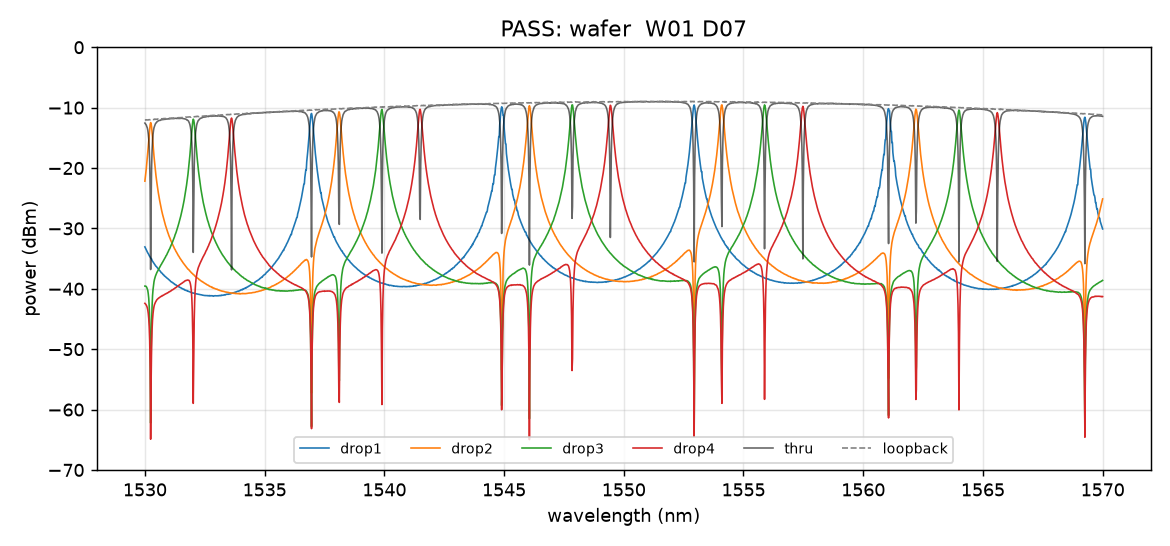
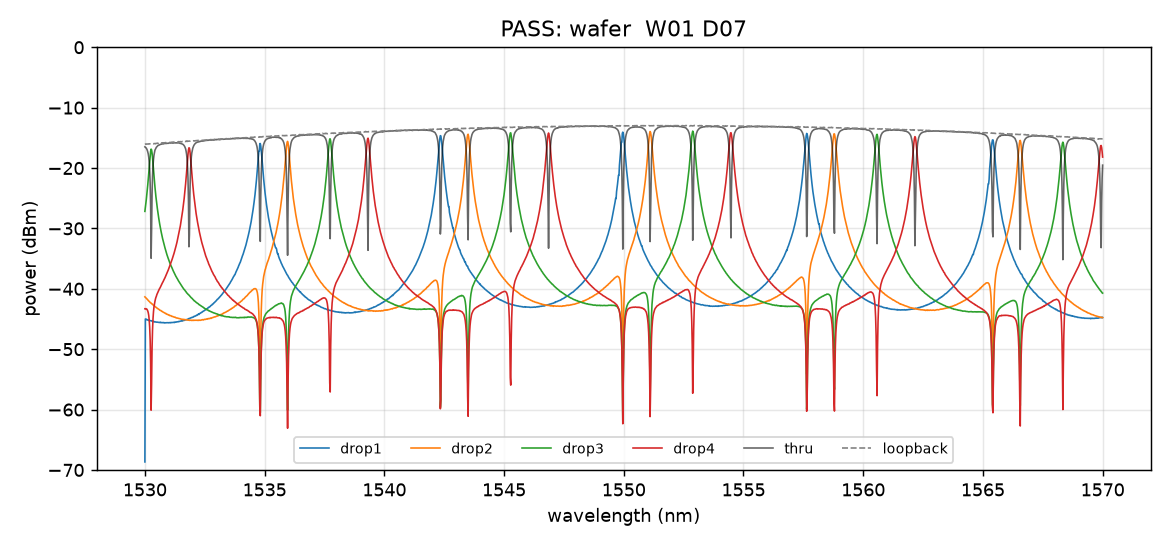
Die model follows the corrected WDM4 design: Euler ring corners, coupling integrated along the corner, gaps 0.26 / 0.31 / 0.36 um, channel step 69 nm, foundry bend loss, 6 dB couplers, heater power per pi including the leads; limits, tests and figures updated

Changed region(s): [[0.1231, 0.1868, 0.9538, 0.7784], [0.1231, 0.7473, 0.1538, 0.8095]]

diff --git a/pts/dut.py b/pts/dut.py
@@ -1,11 +1,15 @@
 """Physics model of the device under test: the WDM4 ring bank.
 
 The chip is the cornerstone-pic tape-out: CORNERSTONE SOI, 450 x 220 nm strip
-waveguides, racetrack add-drop rings (R = 10 um, length_x = 4 um,
-length_y = 0.6 + 0.066 k um), laid out three times with coupling gaps
-0.22 / 0.27 / 0.32 um (banks 1-3), one TiN heater per ring, grating couplers on
+waveguides, racetrack add-drop rings (corner radius 10 um, length_x = 4 um,
+length_y = 0.6 + 0.069 k um), laid out three times with coupling gaps
+0.26 / 0.31 / 0.36 um (banks 1-3), one TiN heater per ring, grating couplers on
 a 127 um pitch, one reference loopback. Waveguide numbers (n_eff, n_g,
 coupling versus gap) are the femwell results in data/strip_450x220.json.
+
+The ring's four corners are the kit's Euler bends, not quarter circles: each is
+16.637 um long, and the coupling is integrated along the corner's real shape
+(cornerstone-pic/wdm_models.py, November 2026 correction of that design).
 
 Per-die process variation is seeded from (wafer, die), so a die measures the
 same every time it is loaded, and some dies carry a defect. That is what makes
@@ -26,17 +30,22 @@ NEFF0, NG, WL0_UM = _d["neff0"], _d["ng"], _d["wl0"]
 KAPPA0, G0, GAMMA = _d["kappa0"], _d["g0"], _d["gamma"]
 
 # layout
-R_UM, LENGTH_X, LENGTH_Y0, DL_Y = 10.0, 4.0, 0.6, 0.066
-BANK_GAPS = {1: 0.22, 2: 0.27, 3: 0.32}
+R_UM, LENGTH_X, LENGTH_Y0, DL_Y = 10.0, 4.0, 0.6, 0.069
+L_CORNER_UM = 16.637       # one Euler corner of the kit's ring cell (a quarter circle would be 15.708)
+LEFF_CORNER_UM = 2.718     # integral of exp(-gamma * distance from the bus) along one corner, gamma from the data file
+BANK_GAPS = {1: 0.26, 2: 0.31, 3: 0.36}
 N_RINGS = 4
 
 # nominal process and packaging numbers
-ALPHA_DB_CM = 3.0          # propagation loss
-DNEFF_DW = 0.0020          # d n_eff / d width, per nm (450 x 220 strip, TE, 1550 nm)
+ALPHA_DB_CM = 3.0          # propagation loss of the straight strip (assumed; the foundry's library has no strip page)
+BEND_DB = 0.0116           # loss of one 90 degree bend at R = 10 um, 450 nm strip: cut-back slope in CORNERSTONE's
+                           # SOI standard components library (Mar 2023); the whole loss of the bend, charged once per corner
+DNEFF_DW = 0.00219         # d n_eff / d width, per nm (450 x 220 strip, TE, 1550 nm; femwell width sweep, cornerstone-pic step 18)
 DNEFF_DT = 0.0035          # d n_eff / d thickness, per nm
-P_PI_MW = 20.0             # heater power for a pi phase shift
+P_PI_MW = 88.0             # electrical heater power for a pi phase shift: the foundry's qualification bound of 30 mW per pi
+                           # for the heated waveguide, times 113/38.5 because only 38.5 um of the 113 um heater lies over the ring
 R_HEATER = 300.0           # TiN heater resistance, ohm
-GC_LOSS_DB = 4.0           # grating coupler loss at its centre wavelength
+GC_LOSS_DB = 6.0           # grating coupler loss at its centre wavelength (kit model; the library measures 5.5 to 6.5 dB)
 GC_1DB_HALF_BW_NM = 17.5   # 1 dB bandwidth = 35 nm
 ROUTE_LOSS_DB = 0.3        # on-chip routing per path
 NOISE_FLOOR_DBM = -70.0
@@ -96,14 +105,26 @@ def die_params(wafer: str, die: str) -> DieParams:
 
 # ---------------------------------------------------------------- ring physics
 def ring_length_um(k: int) -> float:
-    return 2 * np.pi * R_UM + 2 * LENGTH_X + 2 * (LENGTH_Y0 + DL_Y * k)
+    return 4 * L_CORNER_UM + 2 * LENGTH_X + 2 * (LENGTH_Y0 + DL_Y * k)
+
+
+def ring_straight_um(k: int) -> float:
+    return 2 * LENGTH_X + 2 * (LENGTH_Y0 + DL_Y * k)
 
 
 def coupling_k(gap_um: float) -> float:
     """Power cross-coupling per pass, sin^2(kappa(gap) * l_eff)."""
-    l_eff = LENGTH_X + np.sqrt(2 * np.pi * R_UM / GAMMA)
+    l_eff = LENGTH_X + 2 * LEFF_CORNER_UM
     kappa = KAPPA0 * np.exp(-GAMMA * (gap_um - G0))
     return float(np.sin(kappa * l_eff) ** 2)
+
+
+def round_trip_loss_db(k: int, alpha_db_cm: float = ALPHA_DB_CM, extra_db_cm: float = 0.0) -> float:
+    """Power loss of one round trip in dB: four corners at the foundry's bend figure, the straights
+    at the strip loss. A die whose strip loss is off nominal has its bend loss scaled alike (assumed:
+    both come from the same sidewalls). A particle adds its excess loss over the whole ring."""
+    scale = alpha_db_cm / ALPHA_DB_CM
+    return 4 * BEND_DB * scale + alpha_db_cm * ring_straight_um(k) * 1e-4 + extra_db_cm * ring_length_um(k) * 1e-4
 
 
 def n_eff(lam_um, dn: float = 0.0):
@@ -111,14 +132,14 @@ def n_eff(lam_um, dn: float = 0.0):
     return NEFF0 + dn - (NG - NEFF0) * (lam_um - WL0_UM) / WL0_UM
 
 
-def add_drop(lam_um, L_um: float, K: float, alpha_db_cm: float, dn: float, phi_heater: float):
+def add_drop(lam_um, L_um: float, K: float, loss_db: float, dn: float, phi_heater: float):
     """Symmetric add-drop ring. Returns (drop, through) power transmission.
 
     t = sqrt(1-K) is the field through-coupling, A the round-trip field
-    attenuation, phi the round-trip phase.
+    attenuation for a round-trip power loss of loss_db, phi the round-trip phase.
     """
     t = np.sqrt(1.0 - K)
-    A = np.exp(-(alpha_db_cm / 4.343) * (L_um * 1e-4) / 2.0)
+    A = 10 ** (-loss_db / 20.0)
     phi = 2 * np.pi * n_eff(lam_um, dn) * L_um / lam_um + phi_heater
     e = np.exp(1j * phi)
     D = 1.0 - t * t * A * e
@@ -186,9 +207,9 @@ class DUT:
         for k in range(N_RINGS):
             idx = (self.bank - 1) * N_RINGS + k
             dn = dn_die + p.ring_offset_nm[idx] * 1e-3 * NG / WL0_UM
-            alpha = p.alpha_db_cm + p.ring_extra_db_cm[idx]
+            loss = round_trip_loss_db(k, p.alpha_db_cm, p.ring_extra_db_cm[idx])
             phi_h = np.pi * self.heater_power_mw(k + 1) / P_PI_MW
-            d, t = add_drop(lam_um, ring_length_um(k), K, alpha, dn, phi_h)
+            d, t = add_drop(lam_um, ring_length_um(k), K, loss, dn, phi_h)
             out[f"drop{k + 1}"] = bus * d
             bus = bus * t
         out["thru"] = bus

diff --git a/pts/routines.py b/pts/routines.py
@@ -8,19 +8,19 @@ from . import analysis, db
 from .dut import design_resonances_nm
 from .station import Station
 
-# acceptance limits for the bank-2 (gap 0.27) design; the numbers a test engineer signs off
+# acceptance limits for the bank-2 (gap 0.31) design; the numbers a test engineer signs off
 LIMITS = {
     "drop_loss_db": (None, 3.0),
     "fwhm_nm": (0.05, 0.60),
     "heater_ohm": (200.0, 400.0),
     "channel_spacing_nm": (1.2, 2.0),
-    "res_offset_nm": (-4.1, 4.1),          # measured minus design, per ring: uniform over +-FSR/2, charted, not judged
-    "tune_to_design_mw": (None, 45.0),     # heater power to bring ring 1 onto its design wavelength (red-shift only; a full FSR is ~40 mW)
-    "loopback_dbm_1550": (-14.0, None),     # coupler pair + fibers at 0 dBm in
+    "res_offset_nm": (-3.9, 3.9),          # measured minus design, per ring: uniform over +-FSR/2, charted, not judged
+    "tune_to_design_mw": (None, 200.0),    # heater power to bring ring 1 onto its design wavelength (red-shift only; a full FSR is ~176 mW)
+    "loopback_dbm_1550": (-16.0, None),     # two 6 dB couplers + routing + fibers at 0 dBm in
 }
 
 SWEEP = dict(start_nm=1530.0, stop_nm=1570.0, step_nm=0.02)
-HEATER_CURRENTS_A = [0.0, 2e-3, 4e-3, 6e-3, 8e-3]
+HEATER_CURRENTS_A = [0.0, 4e-3, 8e-3, 12e-3, 16e-3]
 
 
 def judge(metrics: dict) -> tuple[str, list[str]]:

diff --git a/study/fig_passives.py b/study/fig_passives.py
@@ -43,8 +43,8 @@ hi = i0
 while hi < len(drop) - 1 and drop[hi + 1] > drop.max() - 3: hi += 1
 fwhm = lam2[hi] - lam2[lo]
 a.annotate(f"FWHM {fwhm * 1e3:.0f} pm, Q = λ/FWHM ≈ {pk / fwhm:.0f}", xy=(pk, drop.max()), xytext=(pk - 7.2, -5), arrowprops=dict(arrowstyle="->"), fontsize=8.5)
-a.annotate("", xy=(pk + 8.05, -14), xytext=(pk, -14), arrowprops=dict(arrowstyle="<->"))
-a.text(pk + 4.0, -13, "FSR 8.0 nm", ha="center", fontsize=8.5)
+a.annotate("", xy=(pk + 7.66, -14), xytext=(pk, -14), arrowprops=dict(arrowstyle="<->"))
+a.text(pk + 3.83, -13, "FSR 7.7 nm", ha="center", fontsize=8.5)
 a.set(title="(c) ring resonator: FSR, width, drop loss, through extinction", xlabel="wavelength (nm)", ylabel="transmission (dB)", ylim=(-35, 1))
 a.legend(loc="lower left")
 

diff --git a/tests/test_dut.py b/tests/test_dut.py
@@ -4,12 +4,13 @@ from pts import dut
 
 
 def test_fsr_near_8nm_and_coupling():
-    K = dut.coupling_k(0.27)
+    K = dut.coupling_k(0.31)
     assert 0.04 < K < 0.08
     lam = np.arange(1530, 1570, 0.005)
-    d, t = dut.add_drop(lam * 1e-3, dut.ring_length_um(0), K, 3.0, 0.0, 0.0)
+    d, t = dut.add_drop(lam * 1e-3, dut.ring_length_um(0), K, dut.round_trip_loss_db(0), 0.0, 0.0)
     peaks = lam[(d > np.roll(d, 1)) & (d > np.roll(d, -1)) & (d > 0.5)]
-    assert 7.5 < np.median(np.diff(peaks)) < 8.5
+    assert 7.4 < np.median(np.diff(peaks)) < 7.9
+    assert abs(dut.ring_length_um(0) - 75.75) < 0.01
 
 
 def test_die_params_are_deterministic_and_defects_exist():

diff --git a/README.md b/README.md
@@ -28,8 +28,11 @@ in real hardware is a change of `config/virtual.json` to `config/real.example.js
 The device under test is the WDM4 die from
 [cornerstone-pic](https://nanodevo.github.io/reports/wdm4-demux.html): four
 add-drop racetrack rings on CORNERSTONE's 220 nm SOI platform, one TiN heater
-per ring, laid out three times with coupling gaps of 0.22 / 0.27 / 0.32 µm,
+per ring, laid out three times with coupling gaps of 0.26 / 0.31 / 0.36 µm,
 grating couplers on the fiber-array pitch and a reference loopback. The model
+follows that design's November 2026 correction: the ring's corners are the
+kit's Euler bends (16.64 µm each), the coupling is integrated along their real
+shape, and each corner carries the foundry's measured bend loss. The model
 in `pts/dut.py` uses the femwell-derived waveguide numbers of that design
 (`data/strip_450x220.json`), adds process variation seeded per (wafer, die)
 (width, thickness, gap, loss, coupler centre) and gives about 8 % of the dies a
